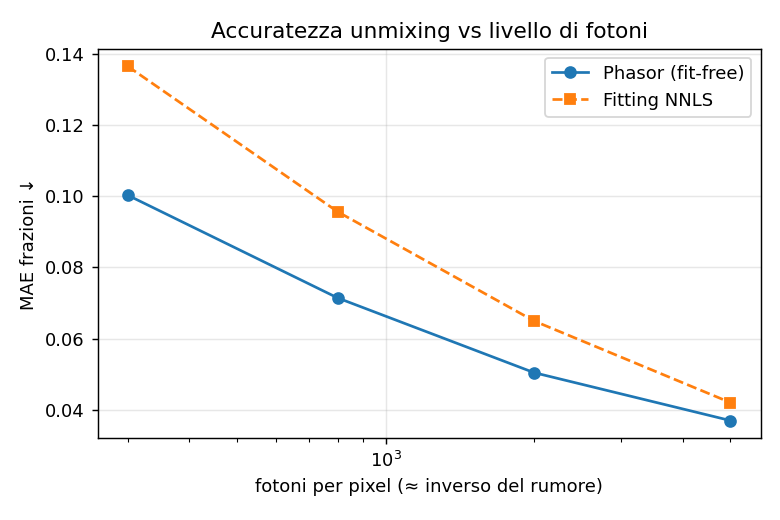
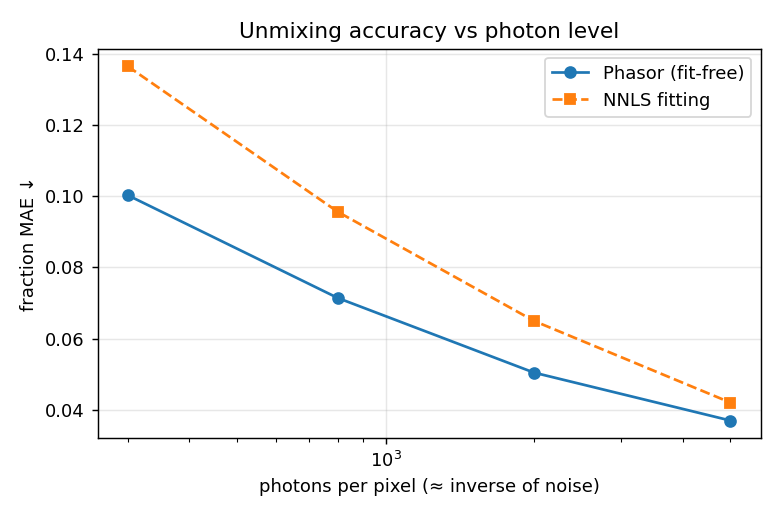
chore: regenerate results and figures with English labels; update docs to the new run

diff --git a/README.md b/README.md
@@ -59,7 +59,7 @@ figures are in `results/` (`metrics.json`, `phasor_plot.png`, `mae_vs_photons.pn
 | 2000 | **0.050** | 0.065 |
 | 5000 | **0.037** | 0.042 |
 
-The phasor approach is more accurate at **every** noise level and is on average **~32× faster** than NNLS fitting, while using the same prior information (the reference lifetimes).
+The phasor approach is more accurate at **every** noise level and is on average **~23× faster** than NNLS fitting (wall-clock on CPU, machine-dependent), while using the same prior information (the reference lifetimes).
 
 ![mae](results/mae_vs_photons.png)
 
